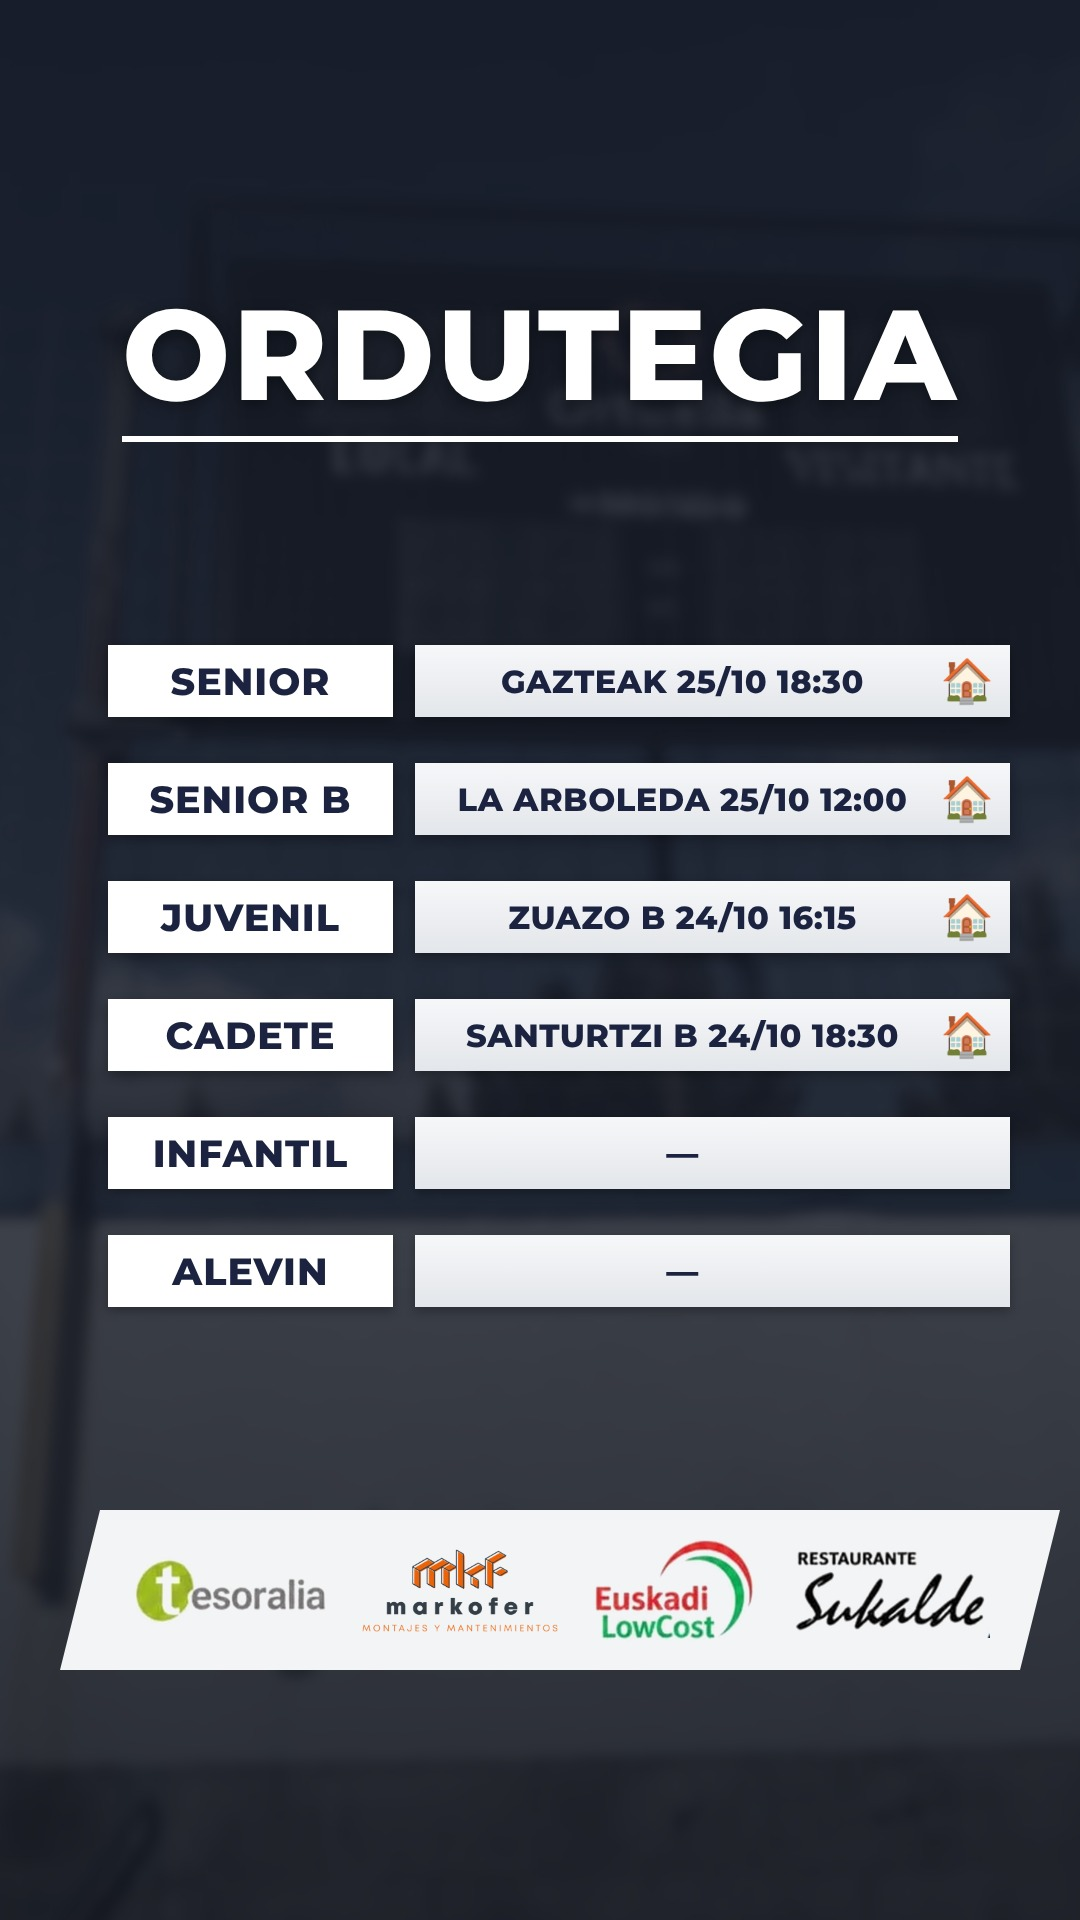
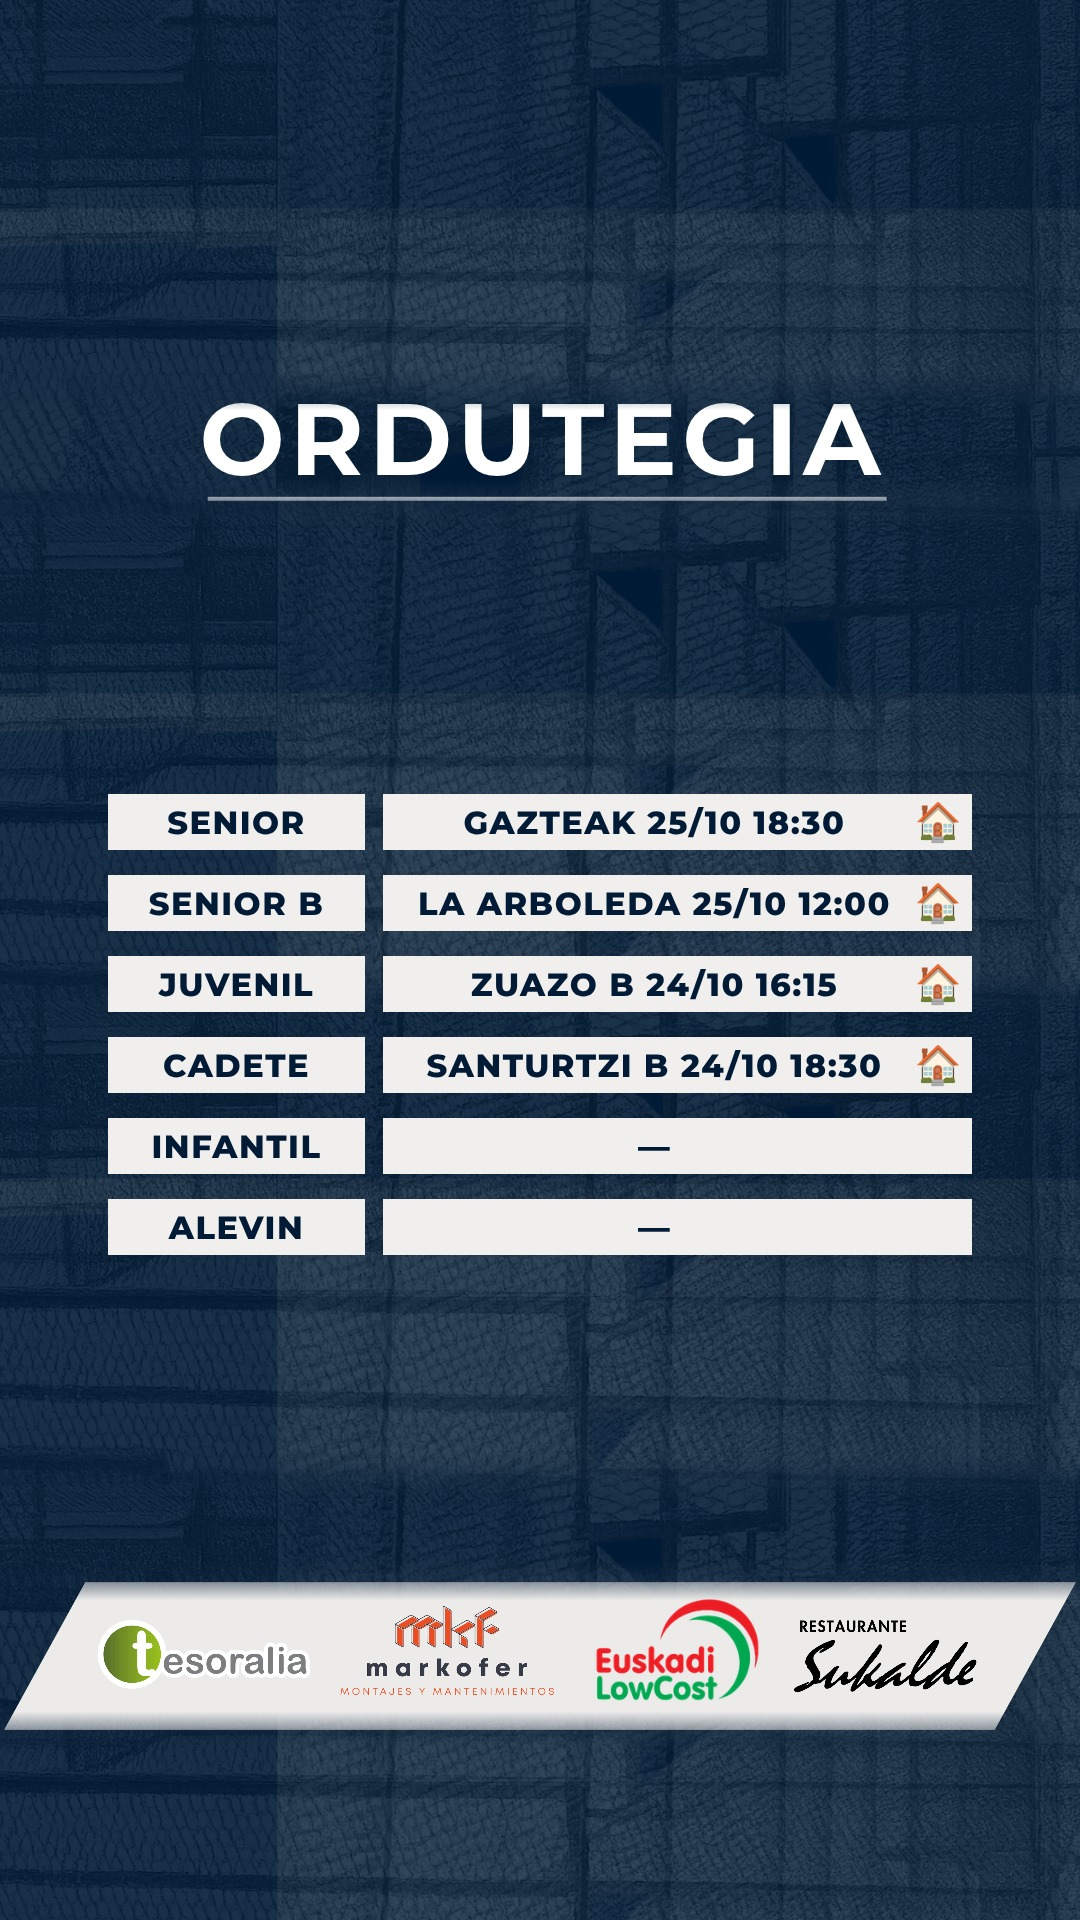
Publicaciones de Instagram con los fondos de las plantillas de Canva
ORDUTEGIA y EMAITZAK usan el fondo, el título, la banda de patrocinadores y la cinta de
resultados de las plantillas de Canva; las filas se dibujan encima con sus medidas.
preparar_fondos.py quita de las plantillas las filas de otros años y prepara post e historia.

Claude-Session: https://claude.ai/code/session_01HGhHxNaaRD1kMFHjNqCnKz

diff --git a/redes/plantillas/estilos.css b/redes/plantillas/estilos.css
@@ -14,59 +14,32 @@ body { position: relative; font-family: Montserrat, sans-serif; background: #101
 main { position: relative; height: 100%; display: flex; flex-direction: column; align-items: center; }
 .historia main { padding-top: 120px; padding-bottom: 140px; }
 
-/* ------------------------------------------------ tablas: título y patrocinadores */
+/* ------------------------------------------------ tablas (fondo, título y patrocinadores: lienzo de Canva) */
 
-.titulo { margin-top: 140px; font-size: 128px; font-weight: 800; letter-spacing: 2px; line-height: 1;
-  padding-bottom: 18px; border-bottom: 6px solid #fff; text-shadow: 0 4px 14px rgba(0, 0, 0, .35); }
-.historia .titulo { margin-top: 170px; }
+.lienzo { position: absolute; inset: 0; width: 100%; height: 100%; }
 
-.tabla { flex: 1; width: 100%; display: flex; flex-direction: column; justify-content: center; }
+/* ------------------------------------------------ ORDUTEGIA (medidas de la plantilla de Canva) */
 
-.patrocinadores { width: 1000px; height: 160px; margin: 0 0 60px 40px; background: #f3f4f6;
-  clip-path: polygon(4% 0, 100% 0, 96% 100%, 0 100%); box-shadow: 0 6px 20px rgba(0, 0, 0, .4); }
-.historia .patrocinadores { margin-bottom: 110px; }
-.logos { height: 100%; padding: 0 70px; display: flex; align-items: center; justify-content: space-between; }
-.logos img { max-height: 108px; max-width: 200px; object-fit: contain; }
-
-/* ------------------------------------------------ ORDUTEGIA */
-
-.ordutegia .tabla { gap: 30px; padding: 0 70px 0 108px; }
-.historia.ordutegia .tabla { gap: 46px; }
-.ordutegia .fila { display: flex; gap: 22px; height: 72px; }
-.ordutegia .cat, .ordutegia .dato { display: flex; align-items: center; color: #1b2340; font-weight: 800;
-  box-shadow: 0 4px 10px rgba(0, 0, 0, .3); }
-.ordutegia .cat { flex: none; width: 285px; justify-content: center; background: #fff; font-size: 38px; letter-spacing: 1px; }
-.ordutegia .dato { flex: 1; min-width: 0; justify-content: center; position: relative; padding: 0 80px 0 20px;
-  background: linear-gradient(180deg, #f6f7f9, #e3e6ea); font-size: 32px; letter-spacing: .5px; }
+.ordutegia .fila { position: absolute; left: 0; height: 56px; width: 100%; }
+.ordutegia .cat, .ordutegia .dato { position: absolute; top: 0; height: 56px; display: flex; align-items: center;
+  justify-content: center; background: #f0efee; color: #011a36; font-weight: 800; font-size: 32px; letter-spacing: 1.5px; }
+.ordutegia .cat { left: 108px; width: 257px; }
+.ordutegia .dato { left: 383px; width: 589px; padding: 0 70px 0 24px; }
 .ordutegia .dato .texto { display: block; max-width: 100%; overflow: hidden; white-space: nowrap; text-align: center; }
-.ordutegia .icono { position: absolute; right: 18px; width: 50px; height: 50px; }
+.ordutegia .icono { position: absolute; right: 12px; width: 44px; height: 44px; }
 
-/* ------------------------------------------------ EMAITZAK */
+/* ------------------------------------------------ EMAITZAK (la cinta es la de la plantilla de Canva) */
 
-.emaitzak .tabla { gap: 46px; align-items: center; }
-.historia.emaitzak .tabla { gap: 70px; }
-.emaitzak .tabla.n6, .emaitzak .tabla.n7 { gap: 30px; }
-.partido { position: relative; width: 880px; height: 104px; }
-.cinta { position: absolute; left: 0; right: 0; top: 18px; height: 74px; display: flex; align-items: center;
-  justify-content: space-between; padding: 0 18px 0 30px; background: #232a4f; font-size: 36px; font-weight: 800;
-  clip-path: polygon(0 0, 100% 0, 97% 100%, 3% 100%); }
-/* borde blanco de la cinta: una copia un poco más grande detrás */
-.partido::before { content: ""; position: absolute; left: -6px; right: -6px; top: 12px; height: 86px; background: #fff;
-  clip-path: polygon(0 0, 100% 0, 97% 100%, 3% 100%); }
-.cinta span { width: 262px; overflow: hidden; white-space: nowrap; }
-.cinta .visitante { margin-right: 12px; }
-.cinta .local { text-align: center; }
-.cinta .visitante { text-align: center; }
-.marcador { position: absolute; left: 50%; top: 0; width: 300px; height: 112px; margin-left: -150px; background: #fff;
-  clip-path: polygon(0 0, 100% 0, 88% 100%, 12% 100%); color: #232a4f; }
-.marcador .icono { position: absolute; left: 50%; top: 4px; width: 58px; margin-left: -29px; }
-.etq { position: absolute; top: 16px; font-size: 17px; font-weight: 800; }
-.etq.l { right: 186px; }
-.etq.v { left: 186px; }
-.gol { position: absolute; top: 34px; font-size: 70px; font-weight: 800; line-height: 1; width: 90px; text-align: center; }
-.gol.dos { font-size: 54px; top: 46px; }
-.gol.l { left: 40px; }
-.gol.v { right: 40px; }
+.partido { position: absolute; left: 0; width: 100%; height: 80px; }
+.partido img { position: absolute; left: 104px; top: -20px; }
+.equipo { position: absolute; top: 18px; width: 236px; overflow: hidden; white-space: nowrap; text-align: center;
+  font-size: 33px; font-weight: 800; letter-spacing: .5px; color: #fff; }
+.equipo.local { left: 152px; }
+.equipo.visitante { left: 694px; }
+.gol { position: absolute; top: 12px; width: 80px; text-align: center; font-size: 62px; font-weight: 800; line-height: 1; color: #1e1c3d; }
+.gol.dos { font-size: 46px; top: 20px; letter-spacing: -2px; }
+.gol.l { left: 430px; }
+.gol.v { left: 572px; }
 
 /* ------------------------------------------------ MATCH DAY */
 

diff --git a/redes/preparar_fondos.py b/redes/preparar_fondos.py
@@ -1,0 +1,105 @@
+#!/usr/bin/env python3
+"""
+Prepara, a partir de las exportaciones de Canva (redes/canva/), los lienzos fijos que usa
+generar_redes.py. Solo hay que volver a ejecutarlo si se cambia la plantilla en Canva
+(por ejemplo, un patrocinador nuevo): exportar en PNG 1080×1350 con el mismo nombre y ejecutar.
+
+  plantillas/fondo-ordutegia-post.png / -historia.png   fondo + título + patrocinadores
+  plantillas/fondo-emaitzak-post.png  / -historia.png
+  plantillas/fila-emaitzak.png    la cinta de un resultado (LOCAL ⚽ VISITANTE) con transparencia
+  escudos/Ortuella.png            nuestro escudo en buena calidad
+
+Las plantillas de Canva traen filas de equipos de otros años; aquí se quitan y se deja el
+fondo limpio, porque las filas las dibuja siempre el generador (las que haga falta cada semana).
+
+Uso:  python3 redes/preparar_fondos.py      (necesita Pillow)
+"""
+import os
+
+from PIL import Image, ImageDraw
+
+REDES = os.path.dirname(os.path.abspath(__file__))
+CANVA = os.path.join(REDES, "canva")
+PLANTILLAS = os.path.join(REDES, "plantillas")
+
+HORARIOS = os.path.join(CANVA, "Horarios", "3.png")     # el que menos filas tiene: deja mucho fondo limpio
+RESULTADOS = os.path.join(CANVA, "Resultados", "1.png")  # la plantilla vacía de resultados
+ESCUDO = os.path.join(CANVA, "ESCUDO ORTUELLA COLOR CMYK.png")
+
+FONDO_LIMPIO = (560, 1085)   # franja de Horarios/3.png sin filas ni patrocinadores (y desde, y hasta)
+FUNDIDO = 40                 # px de transición suave al pegar unas franjas sobre otras
+
+# Qué franja se copia de cada plantilla (y desde, y hasta) y dónde va en el post y en la historia.
+# En la historia se deja aire arriba y abajo, donde Instagram pone su barra y la caja de respuesta.
+PIEZAS = {
+    "ordutegia": {"origen": HORARIOS, "titulo": (120, 270), "banda": (1070, 1262),
+                  "post": (120, 1070), "historia": (370, 1560)},
+    "emaitzak": {"origen": RESULTADOS, "titulo": (110, 262), "banda": (1165, 1350),
+                 "post": (110, 1165), "historia": (360, 1580)},
+}
+ALTO = {"post": 1350, "historia": 1920}
+
+
+def mascara_fundido(ancho, alto, arriba=True, abajo=True):
+    """Opaca en el centro y transparente en los bordes de arriba y abajo, para que no se noten las uniones."""
+    m = Image.new("L", (ancho, alto), 255)
+    d = ImageDraw.Draw(m)
+    for i in range(FUNDIDO):
+        v = int(255 * i / FUNDIDO)
+        if arriba:
+            d.line([(0, i), (ancho, i)], fill=v)
+        if abajo:
+            d.line([(0, alto - 1 - i), (ancho, alto - 1 - i)], fill=v)
+    return m
+
+
+def fondo_continuo(alto):
+    """Rellena la altura pedida con la franja limpia repetida, fundiendo cada copia con la anterior."""
+    franja = Image.open(HORARIOS).convert("RGB").crop((0, FONDO_LIMPIO[0], 1080, FONDO_LIMPIO[1]))
+    lienzo = Image.new("RGB", (1080, alto))
+    y = 0
+    while y < alto:
+        lienzo.paste(franja, (0, y), mascara_fundido(1080, franja.height, arriba=y > 0, abajo=False))
+        y += franja.height - FUNDIDO
+    return lienzo
+
+
+def lienzo(pieza, formato):
+    p = PIEZAS[pieza]
+    origen = Image.open(p["origen"]).convert("RGB")
+    fondo = fondo_continuo(ALTO[formato])
+    y_titulo, y_banda = p[formato]
+    for (desde, hasta), y in ((p["titulo"], y_titulo), (p["banda"], y_banda)):
+        trozo = origen.crop((0, desde, 1080, hasta))
+        fondo.paste(trozo, (0, y), mascara_fundido(1080, trozo.height, abajo=y + trozo.height < ALTO[formato]))
+    return fondo
+
+
+def fila_emaitzak():
+    """Recorta la cinta del primer resultado de la plantilla vacía y deja transparente lo de alrededor."""
+    x0, y0, x1, y1 = 104, 264, 982, 368
+    trozo = Image.open(RESULTADOS).convert("RGBA").crop((x0, y0, x1, y1))
+    m = Image.new("L", trozo.size, 0)
+    d = ImageDraw.Draw(m)
+    d.polygon([(110 - x0, 291 - y0), (976 - x0, 291 - y0), (941 - x0, 351 - y0), (144 - x0, 351 - y0)], fill=255)   # cinta azul
+    d.polygon([(392 - x0, 283 - y0), (691 - x0, 283 - y0), (653 - x0, 364 - y0), (430 - x0, 364 - y0)], fill=255)   # pieza blanca
+    d.ellipse([(509 - x0, y0 - y0 + 3), (573 - x0, 334 - y0)], fill=255)   # el balón, que sobresale por arriba
+    trozo.putalpha(m)
+    return trozo
+
+
+def main():
+    for pieza in PIEZAS:
+        for formato in ALTO:
+            lienzo(pieza, formato).save(os.path.join(PLANTILLAS, f"fondo-{pieza}-{formato}.png"), optimize=True)
+    fila_emaitzak().save(os.path.join(PLANTILLAS, "fila-emaitzak.png"), optimize=True)
+    escudo = Image.open(ESCUDO).convert("RGBA")
+    escudo = escudo.crop(escudo.getbbox())
+    escudo.thumbnail((600, 600))
+    os.makedirs(os.path.join(REDES, "escudos"), exist_ok=True)
+    escudo.save(os.path.join(REDES, "escudos", "Ortuella.png"), optimize=True)
+    print("Lienzos preparados en redes/plantillas/ y escudo en redes/escudos/Ortuella.png")
+
+
+if __name__ == "__main__":
+    main()

diff --git a/redes/generar_redes.py b/redes/generar_redes.py
@@ -163,13 +163,14 @@ def pagina(cuerpo, formato, clase):
             f'</head><body class="{clase} {formato}">{cuerpo}<script>{AJUSTAR}</script></body></html>')
 
 
-def banda_patrocinadores(lista):
-    logos = "".join(f'<img src="{uri(os.path.join(REDES, "patrocinadores", l))}">' for l in lista)
-    return f'<div class="patrocinadores"><div class="logos">{logos}</div></div>'
+# Dónde van las filas sobre los lienzos de Canva (preparar_fondos.py), en px desde arriba.
+# Son las medidas de las plantillas de Canva; en la historia, desplazadas como el título.
+FILAS_ORDUTEGIA = {"post": (324, None), "historia": (520, 1530)}   # primera fila (post) o zona donde centrarlas (historia); una cada 81 px
+ZONA_EMAITZAK = {"post": (284, 1152), "historia": (534, 1560)}   # de dónde a dónde pueden ir los resultados
 
 
-def fondo_tablas(config):
-    return f'<div class="fondo desenfocado" style="background-image:url(\'{uri(os.path.join(RAIZ, config["fondos"]["tablas"]))}\')"></div>'
+def lienzo(pieza, formato):
+    return f'<img class="lienzo" src="{uri(os.path.join(REDES, "plantillas", f"fondo-{pieza}-{formato}.png"))}">'
 
 
 def icono(nombre):
@@ -178,18 +179,19 @@ def icono(nombre):
 
 def html_ordutegia(filas, config, formato):
     lineas = ""
-    for cat, p, equipo in filas:
+    for i, (cat, p, equipo) in enumerate(filas):
         if p:
             hora = f" {p['hora']}" if p.get("hora") else ""
             dato = f'<span class="texto ajustar">{html.escape(corto(rival(p, equipo), config))} {date.fromisoformat(p["fecha"]):%d/%m}{hora}</span>'
             dato += icono("casa" if en_casa(p, equipo) else "avion")
         else:
             dato = '<span class="texto">—</span>'
-        lineas += f'<div class="fila"><div class="cat">{html.escape(cat)}</div><div class="dato">{dato}</div></div>'
-    cuerpo = (fondo_tablas(config) +
-              f'<main><h1 class="titulo">ORDUTEGIA</h1><div class="tabla">{lineas}</div>'
-              f'{banda_patrocinadores(config["patrocinadores"]["ordutegia"])}</main>')
-    return pagina(cuerpo, formato, "ordutegia")
+        desde, hasta = FILAS_ORDUTEGIA[formato]
+        if hasta:
+            desde += (hasta - desde - (81 * (len(filas) - 1) + 56)) // 2
+        arriba = desde + 81 * i
+        lineas += f'<div class="fila" style="top:{arriba}px"><div class="cat">{html.escape(cat)}</div><div class="dato">{dato}</div></div>'
+    return pagina(lienzo("ordutegia", formato) + lineas, formato, "ordutegia")
 
 
 def gol(n, lado):
@@ -197,19 +199,19 @@ def gol(n, lado):
 
 
 def html_emaitzak(filas, config, formato):
+    # Los resultados se reparten por la zona: juntos si son muchos, con más aire si son pocos
+    desde, hasta = ZONA_EMAITZAK[formato]
+    paso = min(150, (hasta - desde - 80) / max(len(filas) - 1, 1))
+    primera = desde + (hasta - desde - 80 - paso * (len(filas) - 1)) / 2
+    fila = uri(os.path.join(REDES, "plantillas", "fila-emaitzak.png"))
     lineas = ""
-    for cat, p, equipo in filas:
+    for i, (cat, p, equipo) in enumerate(filas):
         nuestro, otro = html.escape(cat), html.escape(corto(rival(p, equipo), config))
         local, visitante = (nuestro, otro) if en_casa(p, equipo) else (otro, nuestro)
-        lineas += (f'<div class="partido"><div class="cinta"><span class="local ajustar">{local}</span>'
-                   f'<span class="visitante ajustar">{visitante}</span></div>'
-                   f'<div class="marcador"><span class="etq l">LOCAL</span><span class="etq v">VISITANTE</span>'
-                   f'{icono("balon")}{gol(p["gl"], "l")}{gol(p["gv"], "v")}</div></div>')
-    n = len(filas)
-    cuerpo = (fondo_tablas(config) +
-              f'<main><h1 class="titulo">EMAITZAK</h1><div class="tabla n{n}">{lineas}</div>'
-              f'{banda_patrocinadores(config["patrocinadores"]["emaitzak"])}</main>')
-    return pagina(cuerpo, formato, "emaitzak")
+        lineas += (f'<div class="partido" style="top:{primera + paso * i:.0f}px"><img src="{fila}">'
+                   f'<span class="equipo local ajustar">{local}</span><span class="equipo visitante ajustar">{visitante}</span>'
+                   f'{gol(p["gl"], "l")}{gol(p["gv"], "v")}</div>')
+    return pagina(lienzo("emaitzak", formato) + lineas, formato, "emaitzak")
 
 
 def html_matchday(p, equipo, datos, config, formato, variante, fondo):

diff --git a/redes/README.md b/redes/README.md
@@ -23,15 +23,19 @@ Si una pieza no tiene datos (no hay partidos o resultados esa semana), no aparec
   Alevín sale con "—" hasta que se añada a `EQUIPOS` en `actualizar_federacion.py` (cuando la Federación publique su liga).
 - **nombres_cortos**: cómo se escribe un rival ("Union Sport B" → "UNIÓN B"). Si no está, sale el nombre de la Federación.
 - **campos_cortos**: igual para los campos de MATCH DAY.
-- **patrocinadores**: los 4 logos de cada pieza (archivos de `redes/patrocinadores/`).
-- **fondos**: foto de fondo de las tablas y lista de fotos de MATCH DAY (van rotando cada semana).
+- **fondos**: lista de fotos de MATCH DAY (van rotando cada semana; solo se usan las de esta lista).
 - **textos**: frases para acompañar cada publicación (van rotando cada semana).
 
 Otros archivos:
 
+- `canva/`: las plantillas exportadas de Canva. ORDUTEGIA y EMAITZAK usan su fondo, título y banda de
+  patrocinadores tal cual. Si cambia algo en Canva (p. ej. un patrocinador), exportar en PNG 1080×1350,
+  sustituir el archivo con el mismo nombre y ejecutar `python3 redes/preparar_fondos.py`: rehace los
+  lienzos limpios de `plantillas/` (sin las filas de equipos, que las dibuja el generador).
 - `plantillas/estilos.css`: el diseño (tamaños, colores, posiciones).
 - `escudos/`: escudos de los rivales en buena calidad (se bajan solos de la Federación y se les quita el fondo blanco).
-  Si uno sale mal, se puede poner a mano como `escudos/<Nombre exacto de la Federación>.png`. El nuestro: `escudos/Ortuella.png`.
+  Si uno sale mal, se puede poner a mano como `escudos/<Nombre exacto de la Federación>.png`. El nuestro,
+  `escudos/Ortuella.png`, sale del escudo de `canva/`.
 - `recursos/`: tipografía Montserrat e iconos (casa, avión, balón).
 
 Probar en local (hacer como si hoy fuera otro día):
